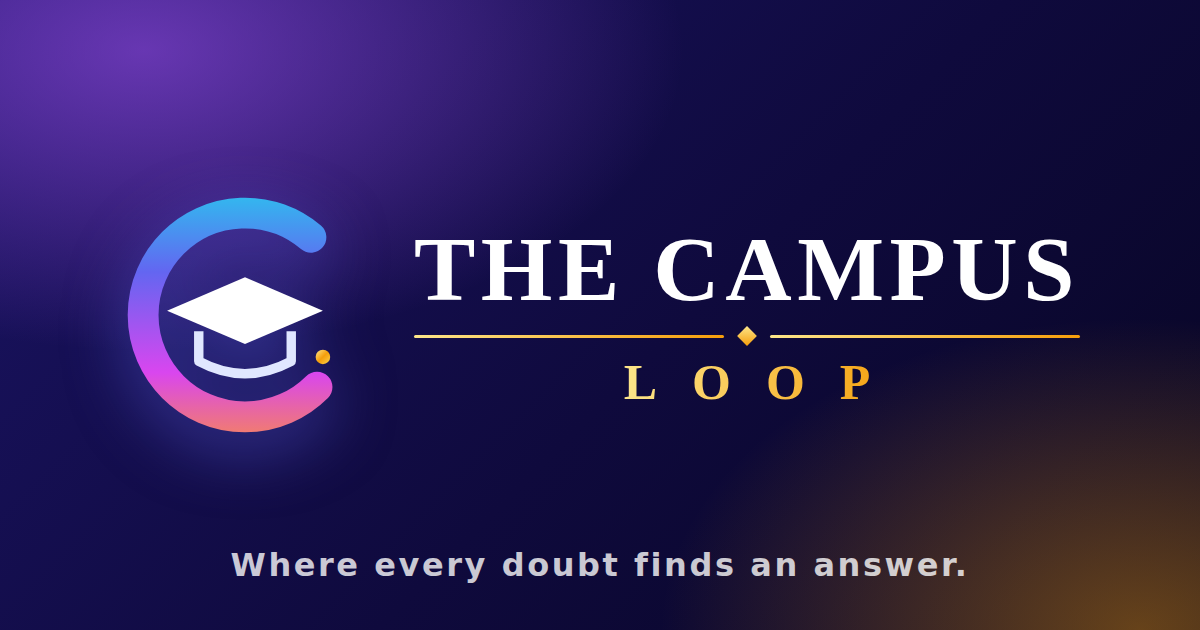
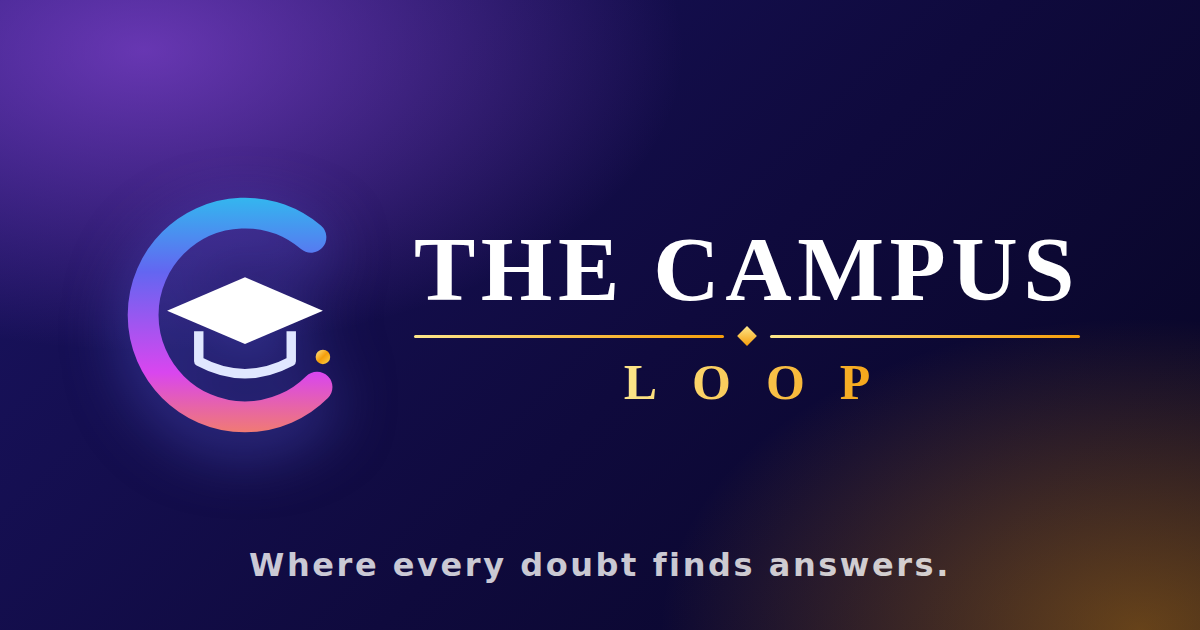
Tagline: Where every doubt finds answers.
Claude-Session: https://claude.ai/code/session_011ASLHPQWcKJEKKCWTNJf9W

Changed region(s): [[0.185, 0.8746, 0.8017, 0.9349]]

diff --git a/docs/index.html b/docs/index.html
@@ -12,7 +12,7 @@
 <meta http-equiv="Content-Security-Policy" content="default-src 'self'; script-src 'self' https://www.gstatic.com; style-src 'self' https://fonts.googleapis.com; font-src https://fonts.gstatic.com; img-src 'self' https://upload.wikimedia.org https://api.dicebear.com https://img.youtube.com data: blob:; media-src 'self' blob: https:; connect-src 'self' https://en.wikipedia.org https://asia-south1-doubt-desk-e6f39.cloudfunctions.net https://*.googleapis.com https://*.firebaseio.com https://firestore.googleapis.com wss://*.firebaseio.com https://*.supabase.co wss://*.supabase.co; frame-src https://www.youtube.com; object-src 'none'; base-uri 'none'; form-action 'self'; worker-src 'self'; manifest-src 'self'; upgrade-insecure-requests;">
 
 <!-- PWA -->
-<link rel="manifest" href="manifest.json?v=349">
+<link rel="manifest" href="manifest.json?v=350">
 <meta name="mobile-web-app-capable" content="yes">
 <meta name="apple-mobile-web-app-capable" content="yes">
 <meta name="apple-mobile-web-app-status-bar-style" content="black-translucent">
@@ -22,15 +22,15 @@
 <meta name="apple-mobile-web-app-title" content="The Campus Loop">
 <link rel="icon" type="image/svg+xml" href="icon.svg">
 <link rel="icon" type="image/png" sizes="32x32" href="favicon-32.png">
-<link rel="apple-touch-icon" href="apple-touch-icon.png?v=349">
+<link rel="apple-touch-icon" href="apple-touch-icon.png?v=350">
 
 <!-- Fonts -->
 <link rel="preconnect" href="https://fonts.googleapis.com">
 <link rel="stylesheet" href="https://fonts.googleapis.com/css2?family=Bricolage+Grotesque:opsz,wght@12..96,600;12..96,800&family=Atkinson+Hyperlegible:ital,wght@0,400;0,700;1,400&family=JetBrains+Mono:wght@500&display=swap">
-<link rel="stylesheet" href="style.css?v=349">
-<link rel="stylesheet" href="sparkbot.css?v=349">
-<link rel="stylesheet" href="player.css?v=349">
-<link rel="stylesheet" href="lab.css?v=349">
+<link rel="stylesheet" href="style.css?v=350">
+<link rel="stylesheet" href="sparkbot.css?v=350">
+<link rel="stylesheet" href="player.css?v=350">
+<link rel="stylesheet" href="lab.css?v=350">
 </head>
 <body>
 <div id="splash" class="splash sp2" role="status" aria-live="polite">
@@ -38,7 +38,7 @@
   <div class="sp2-main">
     <div class="sp2-brand"><span class="sp2-bmark" aria-hidden="true"><svg class="bmark" viewBox="220 120 584 580" width="64" height="64" aria-hidden="true"><defs><linearGradient id="bmRingS" x1="0" y1="0" x2="1" y2="1"><stop offset="0" stop-color="#22d3ee"/><stop offset=".35" stop-color="#6366f1"/><stop offset=".7" stop-color="#d946ef"/><stop offset="1" stop-color="#fb923c"/></linearGradient><linearGradient id="bmGoldS" x1="0" y1="0" x2="1" y2="1"><stop offset="0" stop-color="#fde68a"/><stop offset=".5" stop-color="#f59e0b"/><stop offset="1" stop-color="#fcd34d"/></linearGradient></defs><circle cx="512" cy="410" r="238" fill="none" stroke="url(#bmRingS)" stroke-width="72" stroke-linecap="round" stroke-dasharray="1100 396" transform="rotate(45 512 410)"/><path d="M330 400 L512 322 L694 400 L512 478 Z" fill="#ffffff"/><path d="M404 448 v70 q108 58 216 0 v-70" fill="none" stroke="#e0e7ff" stroke-width="22" stroke-linejoin="round"/><path d="M694 400 v96" stroke="url(#bmGoldS)" stroke-width="10" stroke-linecap="round"/><circle cx="694" cy="508" r="17" fill="url(#bmGoldS)"/></svg></span><span class="sp2-bname"><b>THE CAMPUS</b><i>LOOP</i></span></div>
     <h1 class="splash-title sp2-h" id="splashTitle">Got a doubt? <span>Someone on your campus has the answer.</span></h1>
-    <p class="splash-sub sp2-sub" id="splashSub">Where every doubt finds an answer.</p>
+    <p class="splash-sub sp2-sub" id="splashSub">Where every doubt finds answers.</p>
     <div class="sp2-crest-slot" id="splashCrestSlot"></div>
   </div>
   <div class="sp2-chips" id="splashChips" role="group" aria-label="What you can do">
@@ -78,7 +78,7 @@
   </div>
   <button type="button" class="btn primary splash-go sp2-go" id="splashGo">Join my campus →</button>
 </div>
-<script src="splash.js?v=349"></script>
+<script src="splash.js?v=350"></script>
 
 <!-- offline indicator -->
 <div id="offlineBar" class="offline-bar" hidden>📵 You're offline, showing cached posts</div>
@@ -167,16 +167,16 @@
 <!-- bottom navigation (mobile only) -->
 <nav class="bottom-nav" id="bottomNav" aria-label="Main navigation"></nav>
 
-<script defer src="config.js?v=349"></script>
-<script defer src="quiz.js?v=349"></script>
-<script defer src="plus-data.js?v=349"></script>
-<script defer src="colleges-ap.js?v=349"></script>
-<script defer src="colleges-ap2.js?v=349"></script>
-<script defer src="colleges-ap3.js?v=349"></script>
-<script defer src="college-data.js?v=349"></script>
-<script defer src="rgukt-curriculum.js?v=349"></script>
-<script defer src="colleges-india.js?v=349"></script>
-<script type="module" src="app.js?v=349"></script>
-<script src="lazy.js?v=349"></script>
+<script defer src="config.js?v=350"></script>
+<script defer src="quiz.js?v=350"></script>
+<script defer src="plus-data.js?v=350"></script>
+<script defer src="colleges-ap.js?v=350"></script>
+<script defer src="colleges-ap2.js?v=350"></script>
+<script defer src="colleges-ap3.js?v=350"></script>
+<script defer src="college-data.js?v=350"></script>
+<script defer src="rgukt-curriculum.js?v=350"></script>
+<script defer src="colleges-india.js?v=350"></script>
+<script type="module" src="app.js?v=350"></script>
+<script src="lazy.js?v=350"></script>
 </body>
 </html>

diff --git a/docs/brand/banner.html b/docs/brand/banner.html
@@ -10,4 +10,4 @@ body{background:radial-gradient(900px 500px at 12% 8%,rgba(168,85,247,.55),trans
 .t2{font-size:50px;font-weight:600;letter-spacing:.7em;margin-left:.7em;background:linear-gradient(90deg,#fde68a,#f59e0b);-webkit-background-clip:text;background-clip:text;color:transparent;line-height:1}
 .tag{position:absolute;bottom:46px;left:0;right:0;text-align:center;font:600 32px system-ui,Arial,sans-serif;letter-spacing:.08em;color:rgba(255,255,255,.78)}
 svg{filter:drop-shadow(0 18px 30px rgba(99,102,241,.5))}
-</style></head><body><div class="lock"><svg class="bmark" viewBox="220 120 584 580" width="250" height="250" aria-hidden="true"><defs><linearGradient id="bmRingS" x1="0" y1="0" x2="1" y2="1"><stop offset="0" stop-color="#22d3ee"/><stop offset=".35" stop-color="#6366f1"/><stop offset=".7" stop-color="#d946ef"/><stop offset="1" stop-color="#fb923c"/></linearGradient><linearGradient id="bmGoldS" x1="0" y1="0" x2="1" y2="1"><stop offset="0" stop-color="#fde68a"/><stop offset=".5" stop-color="#f59e0b"/><stop offset="1" stop-color="#fcd34d"/></linearGradient></defs><circle cx="512" cy="410" r="238" fill="none" stroke="url(#bmRingS)" stroke-width="72" stroke-linecap="round" stroke-dasharray="1100 396" transform="rotate(45 512 410)"/><path d="M330 400 L512 322 L694 400 L512 478 Z" fill="#ffffff"/><path d="M404 448 v70 q108 58 216 0 v-70" fill="none" stroke="#e0e7ff" stroke-width="22" stroke-linejoin="round"/><path d="M694 400 v96" stroke="url(#bmGoldS)" stroke-width="10" stroke-linecap="round"/><circle cx="694" cy="508" r="17" fill="url(#bmGoldS)"/></svg><div class="txt"><div class="t1">THE CAMPUS</div><div class="rule"><i></i><b></b><i></i></div><div class="t2">LOOP</div></div></div><div class="tag">Where every doubt finds an answer.</div></body></html>
+</style></head><body><div class="lock"><svg class="bmark" viewBox="220 120 584 580" width="250" height="250" aria-hidden="true"><defs><linearGradient id="bmRingS" x1="0" y1="0" x2="1" y2="1"><stop offset="0" stop-color="#22d3ee"/><stop offset=".35" stop-color="#6366f1"/><stop offset=".7" stop-color="#d946ef"/><stop offset="1" stop-color="#fb923c"/></linearGradient><linearGradient id="bmGoldS" x1="0" y1="0" x2="1" y2="1"><stop offset="0" stop-color="#fde68a"/><stop offset=".5" stop-color="#f59e0b"/><stop offset="1" stop-color="#fcd34d"/></linearGradient></defs><circle cx="512" cy="410" r="238" fill="none" stroke="url(#bmRingS)" stroke-width="72" stroke-linecap="round" stroke-dasharray="1100 396" transform="rotate(45 512 410)"/><path d="M330 400 L512 322 L694 400 L512 478 Z" fill="#ffffff"/><path d="M404 448 v70 q108 58 216 0 v-70" fill="none" stroke="#e0e7ff" stroke-width="22" stroke-linejoin="round"/><path d="M694 400 v96" stroke="url(#bmGoldS)" stroke-width="10" stroke-linecap="round"/><circle cx="694" cy="508" r="17" fill="url(#bmGoldS)"/></svg><div class="txt"><div class="t1">THE CAMPUS</div><div class="rule"><i></i><b></b><i></i></div><div class="t2">LOOP</div></div></div><div class="tag">Where every doubt finds answers.</div></body></html>

diff --git a/docs/sw.js b/docs/sw.js
@@ -1,32 +1,32 @@
 // RGUKT Spark service worker, v36
 // Cache versioned assets only. Never cache index.html so updates deploy instantly.
-const CACHE = 'spark-v349';
+const CACHE = 'spark-v350';
 const SHELL = [
-  './style.css?v=349',
-  './sparkbot.css?v=349',
-  './config.js?v=349',
-  './quiz.js?v=349',
-  './splash.js?v=349',
-  './plus-data.js?v=349',
-  './colleges-ap.js?v=349',
-  './colleges-ap2.js?v=349',
-  './colleges-ap3.js?v=349',
-  './college-data.js?v=349',
-  './rgukt-curriculum.js?v=349',
-  './curiosity.js?v=349',
-  './rgukt-units.js?v=349',
-  './lazy.js?v=349',
-  './colleges-india.js?v=349',
-  './app.js?v=349',
-  './sparkbot.js?v=349',
-  './player.js?v=349',
-  './player.css?v=349',
-  './tools-core.js?v=349',
-  './tools-math.js?v=349',
-  './tools-eng.js?v=349',
-  './tools-life.js?v=349',
-  './lab.js?v=349',
-  './lab.css?v=349',
+  './style.css?v=350',
+  './sparkbot.css?v=350',
+  './config.js?v=350',
+  './quiz.js?v=350',
+  './splash.js?v=350',
+  './plus-data.js?v=350',
+  './colleges-ap.js?v=350',
+  './colleges-ap2.js?v=350',
+  './colleges-ap3.js?v=350',
+  './college-data.js?v=350',
+  './rgukt-curriculum.js?v=350',
+  './curiosity.js?v=350',
+  './rgukt-units.js?v=350',
+  './lazy.js?v=350',
+  './colleges-india.js?v=350',
+  './app.js?v=350',
+  './sparkbot.js?v=350',
+  './player.js?v=350',
+  './player.css?v=350',
+  './tools-core.js?v=350',
+  './tools-math.js?v=350',
+  './tools-eng.js?v=350',
+  './tools-life.js?v=350',
+  './lab.js?v=350',
+  './lab.css?v=350',
   './manifest.json',
   './icon.svg',
   './icon-192.png',

diff --git a/docs/admin.html b/docs/admin.html
@@ -8,15 +8,15 @@
 <meta http-equiv="Content-Security-Policy" content="default-src 'self'; script-src 'self' https://www.gstatic.com; style-src 'self' https://fonts.googleapis.com; font-src https://fonts.gstatic.com; img-src 'self' https://api.dicebear.com https://img.youtube.com data: blob:; media-src 'self' blob: https:; connect-src 'self' https://*.googleapis.com https://*.firebaseio.com https://firestore.googleapis.com wss://*.firebaseio.com https://*.supabase.co wss://*.supabase.co; frame-src https://www.youtube.com; object-src 'none'; base-uri 'none'; form-action 'self'; worker-src 'self'; manifest-src 'self'; upgrade-insecure-requests;">
 <title>The Campus Loop Admin</title>
 <link rel="icon" type="image/svg+xml" href="icon.svg">
-<link rel="stylesheet" href="admin.css?v=349">
+<link rel="stylesheet" href="admin.css?v=350">
 </head>
 <body>
 <div id="app" class="adm"><p class="adm-load">Loading…</p></div>
-<script src="config.js?v=349"></script>
-<script src="colleges-ap.js?v=349"></script>
-<script src="colleges-ap2.js?v=349"></script>
-<script src="colleges-ap3.js?v=349"></script>
-<script src="colleges-india.js?v=349"></script>
-<script type="module" src="admin.js?v=349"></script>
+<script src="config.js?v=350"></script>
+<script src="colleges-ap.js?v=350"></script>
+<script src="colleges-ap2.js?v=350"></script>
+<script src="colleges-ap3.js?v=350"></script>
+<script src="colleges-india.js?v=350"></script>
+<script type="module" src="admin.js?v=350"></script>
 </body>
 </html>

diff --git a/docs/colleges.html b/docs/colleges.html
@@ -1,7 +1,7 @@
 <!doctype html>
 <html lang="en"><head><meta charset="utf-8"><meta name="viewport" content="width=device-width,initial-scale=1">
 <meta http-equiv="Content-Security-Policy" content="default-src 'none'; style-src 'self'; script-src 'self'; img-src 'self'; base-uri 'none'; form-action 'none'">
-<title>The Campus Loop for colleges</title><link rel="icon" href="favicon-32.png"><link rel="stylesheet" href="legal.css?v=349"></head>
+<title>The Campus Loop for colleges</title><link rel="icon" href="favicon-32.png"><link rel="stylesheet" href="legal.css?v=350"></head>
 <body><div class="wrap"><header><a href="./">← The Campus Loop</a></header>
 <h1>The Campus Loop for colleges</h1><p class="meta">One safe, moderated, ad-free study community for your students, with Plus included for everyone.</p>
 <div class="card"><h2>What your college gets</h2><ul>
@@ -18,4 +18,4 @@
 <p>Free pilot for one semester. Prices are yearly and exclude GST. <span class="todo">[Confirm your final prices]</span></p>
 <p><a id="quote" href="#"><b>Request a quote by e-mail</b></a></p></div>
 <nav class="legal"><a href="terms.html">Terms of Use</a><a href="privacy.html">Privacy Policy</a><a href="refund.html">Refund Policy</a></nav></div>
-<script src="colleges-page.js?v=349"></script></body></html>
+<script src="colleges-page.js?v=350"></script></body></html>

diff --git a/docs/app.js b/docs/app.js
@@ -243,7 +243,7 @@ if (!CLUBS.includes("Alumni")) CLUBS.push("Alumni");
 
 const PALETTE = ["#6366f1", "#0ea5e9", "#10b981", "#f59e0b", "#a855f7", "#ec4899", "#ef4444", "#14b8a6", "#84cc16", "#f97316", "#64748b"];
 const FB_VERSION = "10.12.2";
-const MOTTO = CFG.tagline || "Where every doubt finds an answer.";
+const MOTTO = CFG.tagline || "Where every doubt finds answers.";
 // Captions that rotate under the title. Edit them in config.js under `captions`.
 const CAPTIONS = (CFG.captions && CFG.captions.length) ? CFG.captions : [
   MOTTO,
